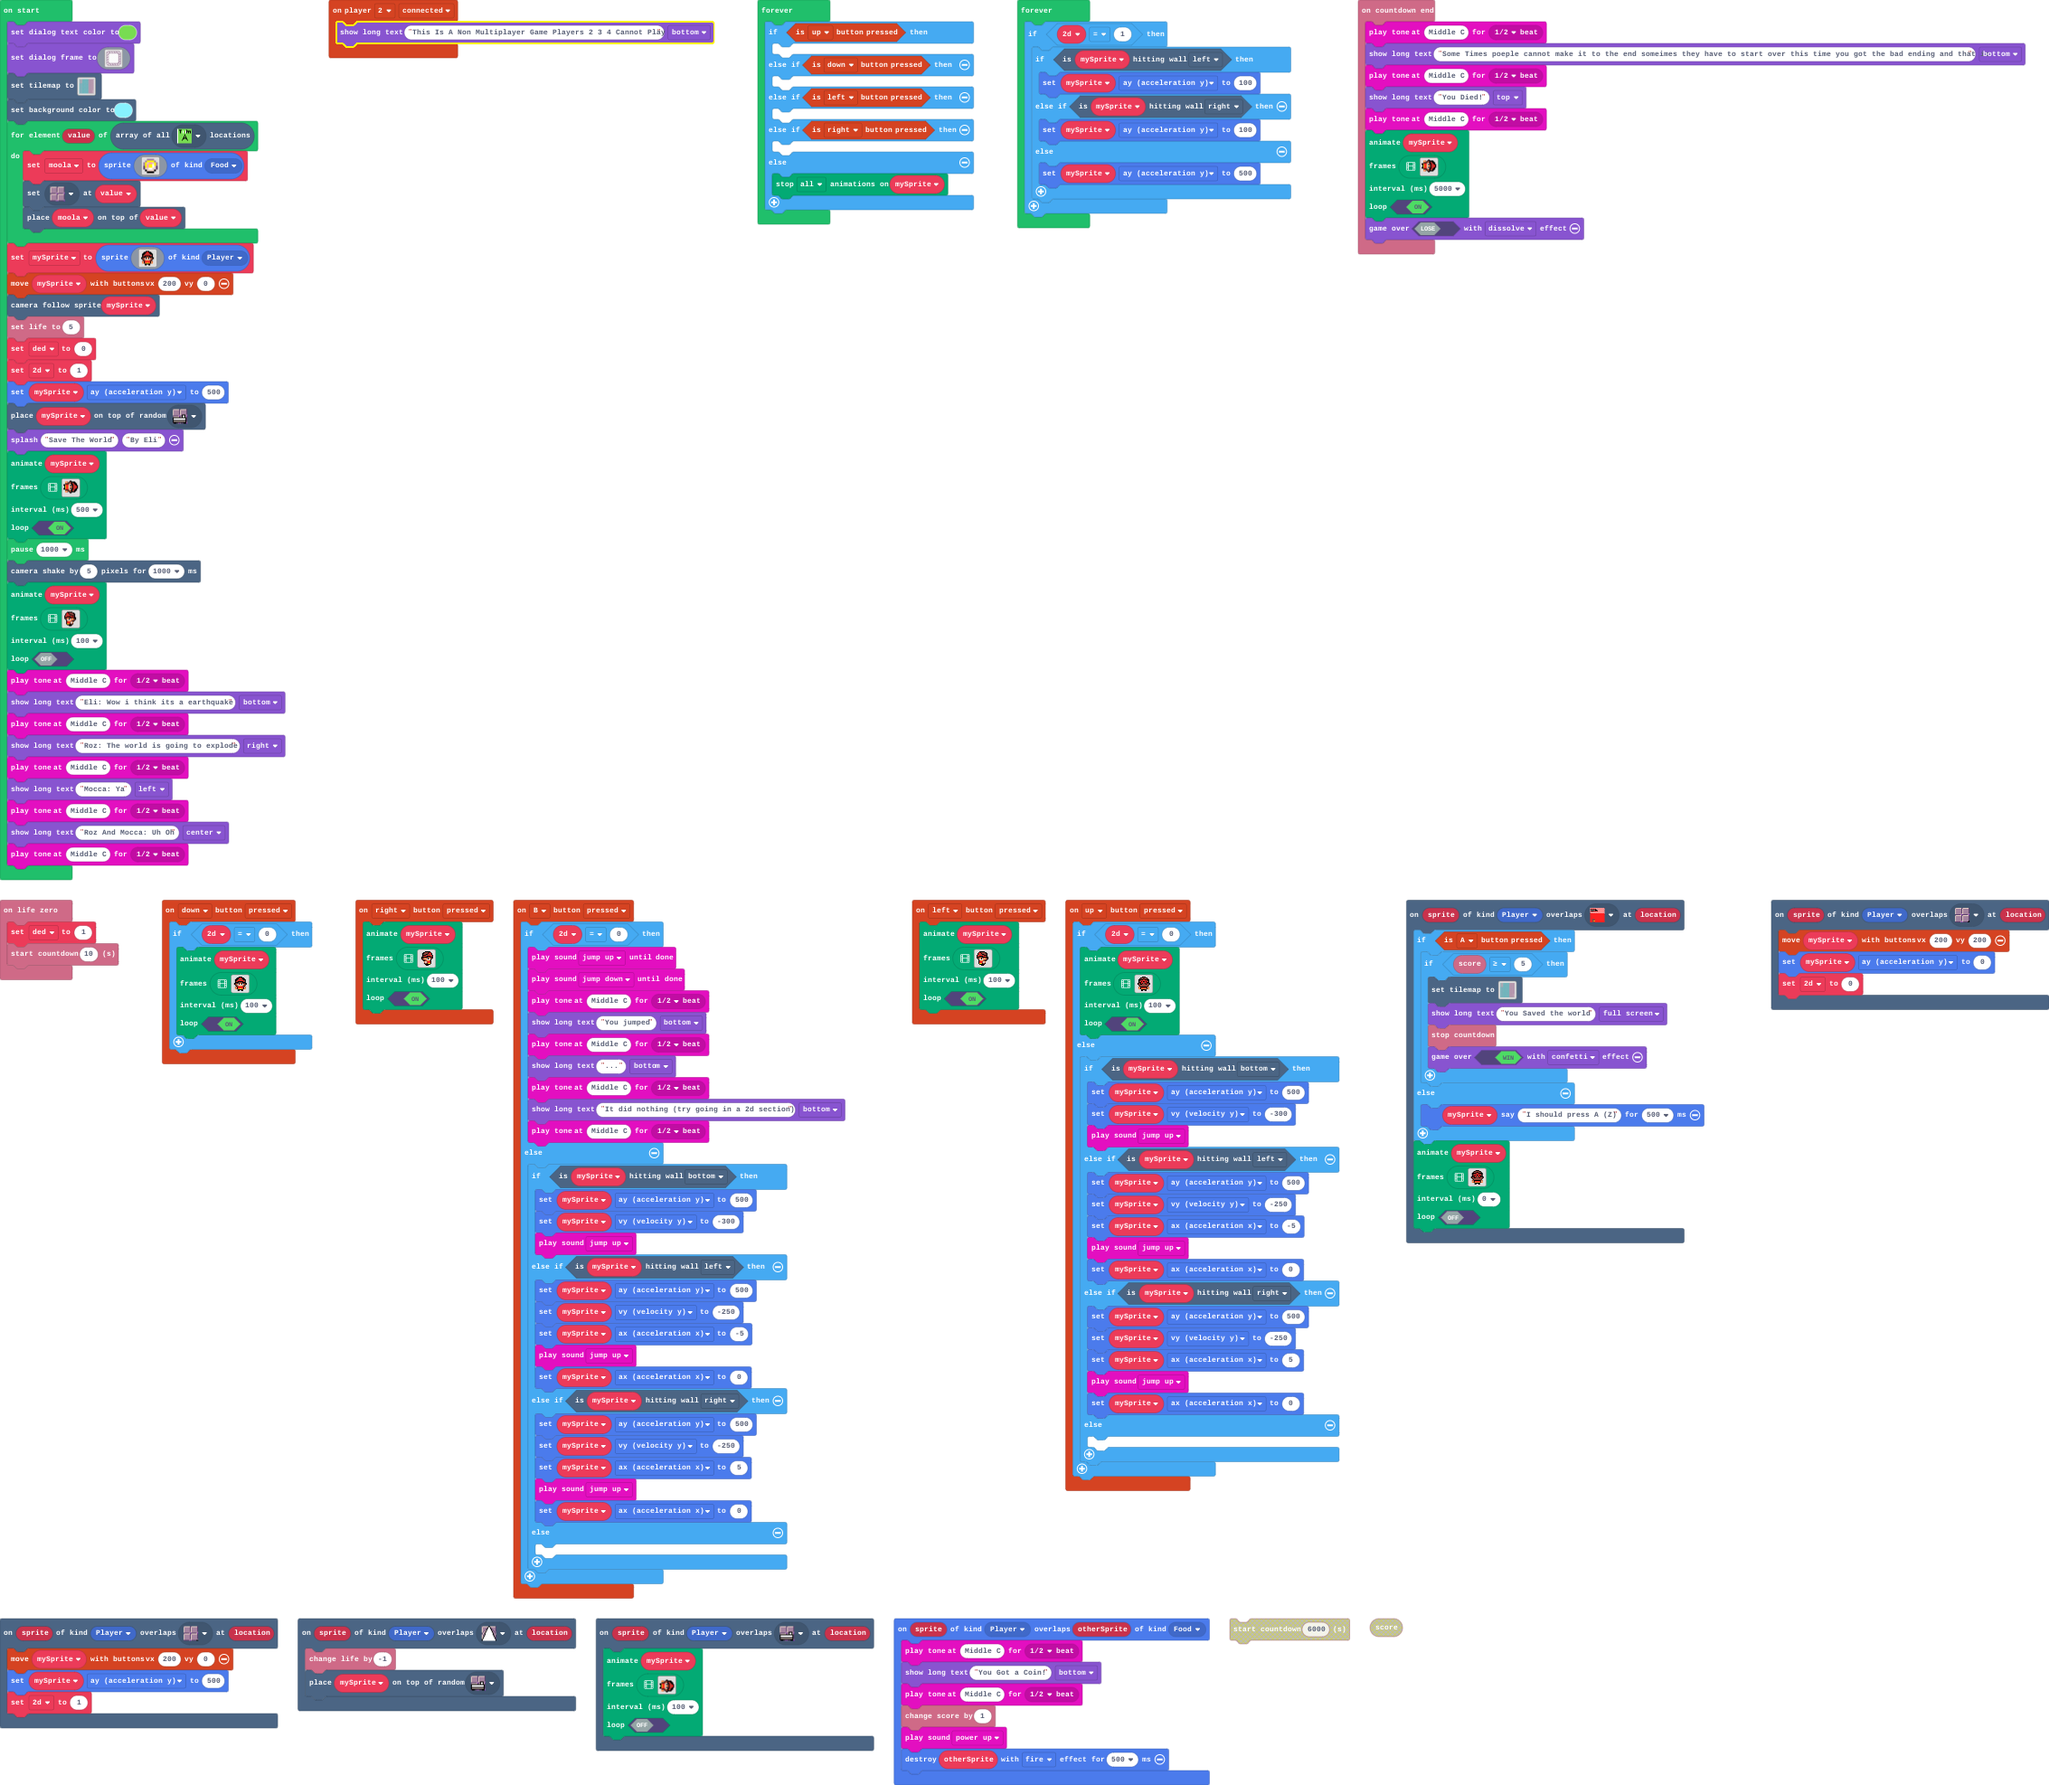
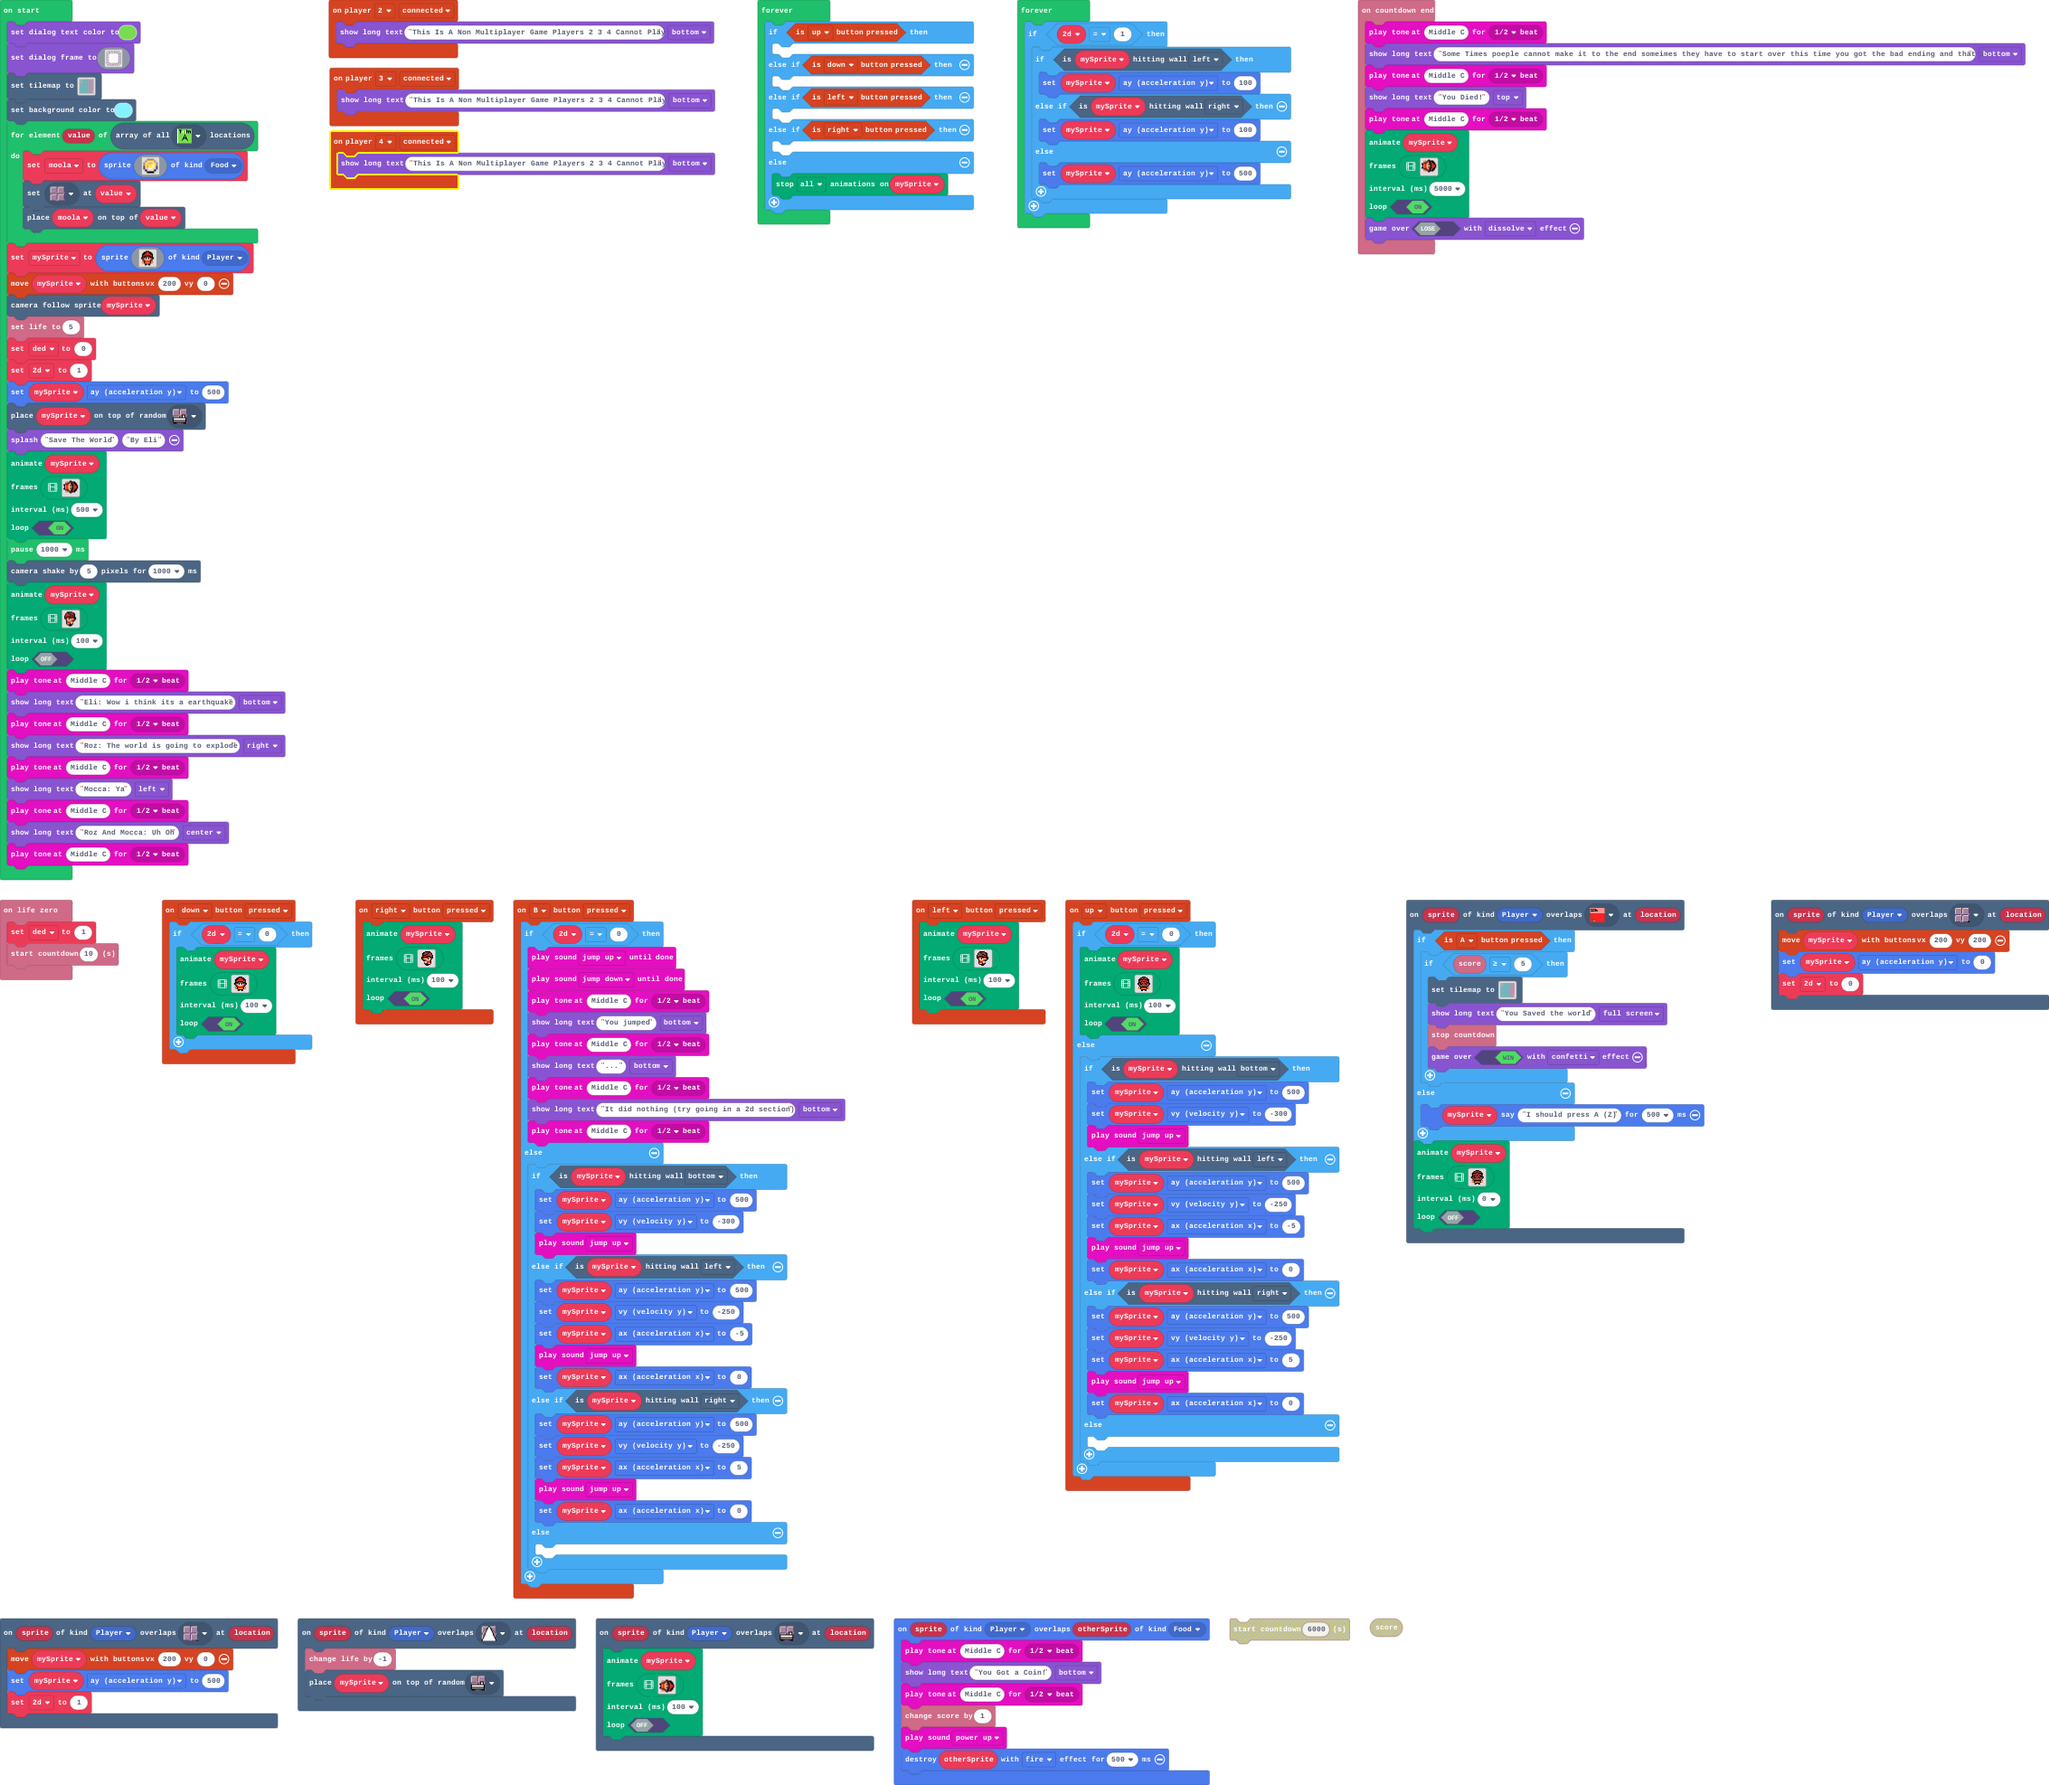
Update main.blocks, main.ts

Changed region(s): [[0.1545, 0.0309, 0.3707, 0.1236]]

diff --git a/main.ts b/main.ts
@@ -38,6 +38,9 @@ scene.onOverlapTile(SpriteKind.Player, assets.tile`myTile1`, function (sprite, l
     mySprite.ay = 0
     _2d = 0
 })
+controller.player4.onEvent(ControllerEvent.Connected, function () {
+    game.showLongText("This Is A Non Multiplayer Game Players 2 3 4 Cannot Play", DialogLayout.Bottom)
+})
 controller.up.onEvent(ControllerButtonEvent.Pressed, function () {
     if (_2d == 0) {
         animation.runImageAnimation(
@@ -273,6 +276,9 @@ scene.onOverlapTile(SpriteKind.Player, assets.tile`myTile3`, function (sprite, l
     100,
     false
     )
+})
+controller.player3.onEvent(ControllerEvent.Connected, function () {
+    game.showLongText("This Is A Non Multiplayer Game Players 2 3 4 Cannot Play", DialogLayout.Bottom)
 })
 info.onCountdownEnd(function () {
     music.playTone(262, music.beat(BeatFraction.Half))
